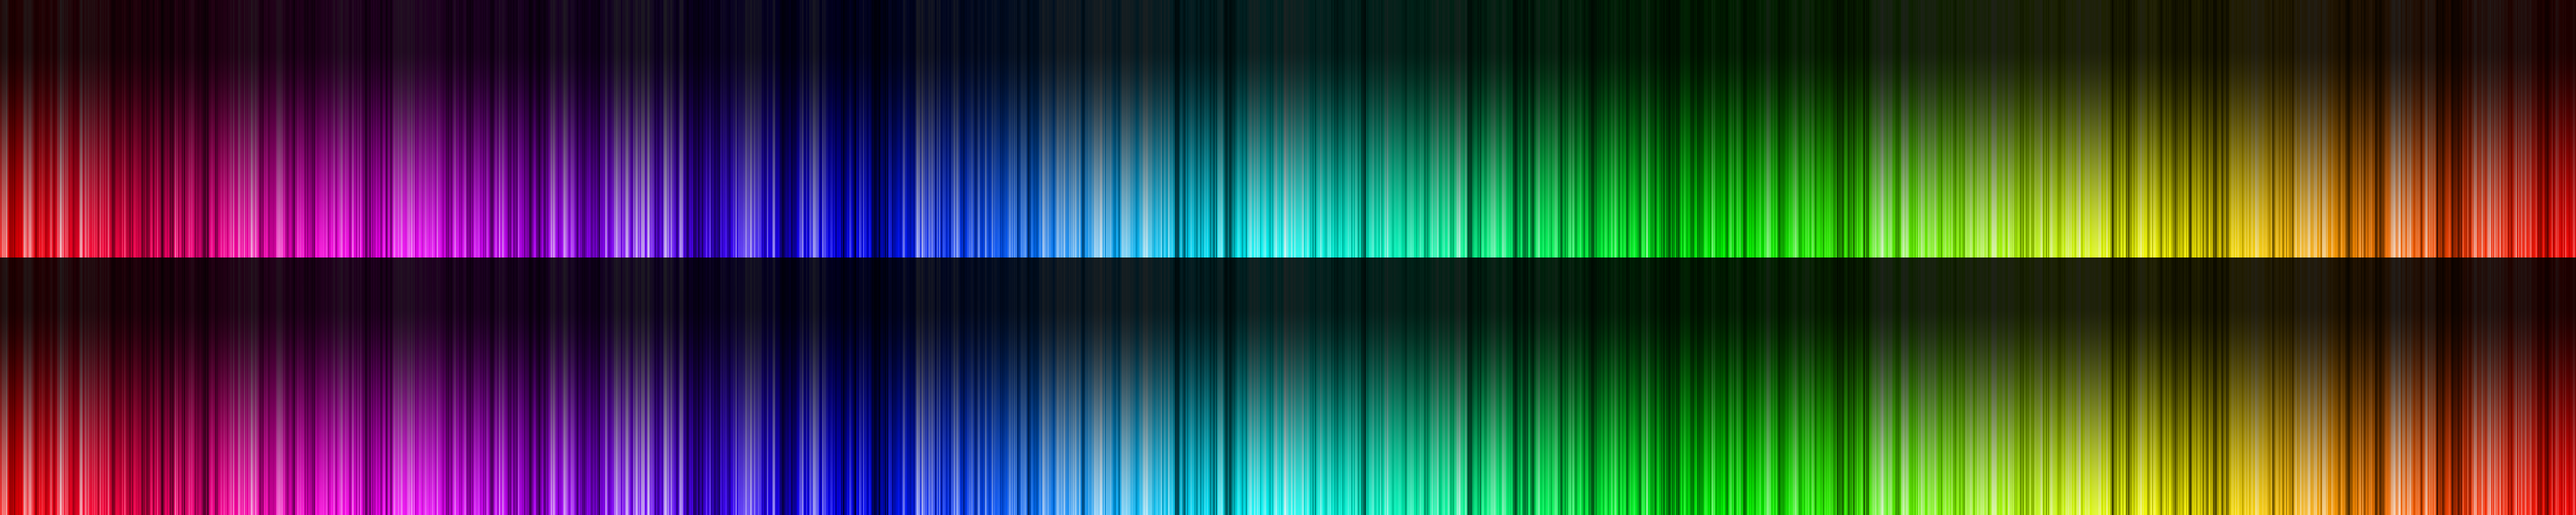
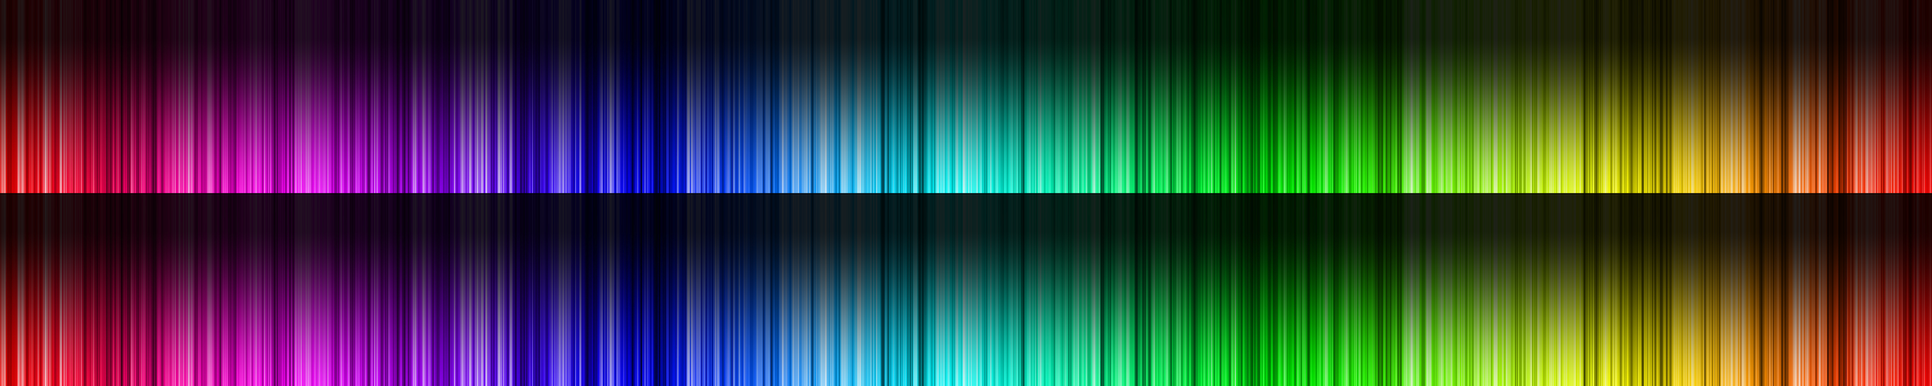
Foreground in place, fixed runner bug.

diff --git a/src/dk/aau/oose/play/PlayController.java b/src/dk/aau/oose/play/PlayController.java
@@ -3,41 +3,34 @@ package dk.aau.oose.play;
 import org.newdawn.slick.Input;
 
 import dk.aau.oose.core.GameElement;
+import dk.aau.oose.create.CreateController;
 import dk.aau.oose.graphics.Background;
+import dk.aau.oose.graphics.ImageElement;
 import dk.aau.oose.noteline.NoteLineView;
 
 public class PlayController extends GameElement {
 	protected PlayTrack pt1, pt2;
-	private Background bg;
+	private ImageElement bg;
 	
 	private static final int SINGLEPLAYER_CONTROLLER = Input.KEY_SPACE,
 							 PT1_CONTROLLER = Input.KEY_A, 
-							 PT2_CONTROLLER = Input.KEY_L,
-							 PT_VERTICAL_OFFSET = 50;
+							 PT2_CONTROLLER = Input.KEY_L;
 	
 	
 	public PlayController(NoteLineView nlv1, NoteLineView nlv2, int numberOfPlayers){
-		pt1 = new PlayTrack(nlv1, (numberOfPlayers > 1) ? SINGLEPLAYER_CONTROLLER : PT1_CONTROLLER, (numberOfPlayers > 0));
+		pt1 = new PlayTrack(nlv1, (numberOfPlayers > 1) ? PT1_CONTROLLER : SINGLEPLAYER_CONTROLLER, (numberOfPlayers > 0));
 		pt2 = new PlayTrack(nlv2, PT2_CONTROLLER, (numberOfPlayers > 1));
 		bg = new Background();
 		
-		pt1.setPosition(0.0f, PT_VERTICAL_OFFSET);
-		pt2.setPosition(0.0f, PT_VERTICAL_OFFSET + pt1.getPosition().y + pt1.getBounds().height);
+		pt1.setPosition(0.0f, CreateController.VERTICAL_OFFSET_1);
+		pt2.setPosition(0.0f, CreateController.VERTICAL_OFFSET_2 + pt1.getPosition().y + pt1.getBounds().height);
 		
 		this.addChild(bg);	
 		this.addChild(pt1);
 		this.addChild(pt2);
 		
-		//listen();
 		//Start right away; no need to press space.
-		startPlaying(new PlayThread.Callback() {
-			
-			@Override
-			public void call() {
-				// TODO Auto-generated method stub
-				
-			}
-		});
+		startPlaying();
 	}
 	
 	public void startPlaying(){

diff --git a/src/dk/aau/oose/GameController.java b/src/dk/aau/oose/GameController.java
@@ -1,12 +1,15 @@
 package dk.aau.oose;
 
 import org.newdawn.slick.Graphics;
+import org.newdawn.slick.Image;
 import org.newdawn.slick.Input;
+import org.newdawn.slick.SlickException;
 
 import dk.aau.oose.core.Button;
 import dk.aau.oose.core.ButtonWithImage;
 import dk.aau.oose.core.GameElement;
 import dk.aau.oose.create.CreateController;
+import dk.aau.oose.graphics.Foreground;
 import dk.aau.oose.noteline.NoteLineView;
 import dk.aau.oose.play.PlayController;
 import dk.aau.oose.play.SavePerfect;
@@ -16,6 +19,7 @@ public class GameController extends GameElement {
 	private CreateController createController;
 	private PlayController playController;
 	private boolean cooperative = false;
+	private Foreground foreground;
 	
 	private ButtonWithImage modeSelect,
 							singleSelect, 
@@ -25,6 +29,8 @@ public class GameController extends GameElement {
 	public GameController(){
 		startCreate();
 		initiateButtons();
+		foreground = new Foreground();
+		this.addChild(foreground);
 	}
 
 	private void initiateButtons() {
@@ -76,15 +82,16 @@ public class GameController extends GameElement {
 			}
 		};
 		
-		modeSelect.setPosition(100, 10);
-		singleSelect.setPosition(300, 10);
-		coopSelect.setPosition(500, 10);
+		modeSelect.setPosition(38, 50);
+		singleSelect.setPosition(620, 50);
+		coopSelect.setPosition(640, 350);
 		savePerfectVersion.setPosition(800, 10);
 
 		this.addChild(modeSelect);
 		this.addChild(singleSelect);
 		this.addChild(coopSelect);
 		this.addChild(savePerfectVersion);
+		
 	}
 
 	@Override

diff --git a/src/dk/aau/oose/create/CreateController.java b/src/dk/aau/oose/create/CreateController.java
@@ -1,24 +1,20 @@
 package dk.aau.oose.create;
 
-import org.newdawn.slick.Input;
-
 import dk.aau.oose.core.GameElement;
 import dk.aau.oose.noteline.NoteLineView;
 
 public class CreateController extends GameElement {
 	private CreateTrack ct1, ct2;
-	private static final int SCROLL_RIGHT = Input.KEY_D, 
-							 SCROLL_LEFT = Input.KEY_A, 
-							 SCROLL_SPEED = 10,
-							 SCROLL_BUTTON = 1,
+	public static final int SCROLL_BUTTON = 1,
 							 MAX_NOTE = 10,
 							 NUMBER_OF_BEATS = 32,
 							 TRACK1_OCTAVE = 5,
 							 TRACK2_OCTAVE = 3,
 							 TEMPO = 100,
-							 WIDTH = NUMBER_OF_BEATS * 50,
-							 HEIGHT = 300,
-							 PT_VERTICAL_OFFSET = 90;
+							 WIDTH = NUMBER_OF_BEATS * 30,
+							 HEIGHT = 150,
+							 VERTICAL_OFFSET_1 = 130,
+							 VERTICAL_OFFSET_2 = 150;
 	
 	private boolean scrolling;
 	private float scrollStartX;
@@ -28,8 +24,8 @@ public class CreateController extends GameElement {
 		ct1 = new CreateTrack(nlv1);
 		ct2 = new CreateTrack(nlv2);
 		
-		ct1.setPosition(0.0f, PT_VERTICAL_OFFSET);
-		ct2.setPosition(0.0f, PT_VERTICAL_OFFSET + ct1.getPosition().y + ct1.getBounds().height);
+		ct1.setPosition(0.0f, VERTICAL_OFFSET_1);
+		ct2.setPosition(0.0f, VERTICAL_OFFSET_2 + ct1.getPosition().y + ct1.getBounds().height);
 		
 		this.addChild(ct1);
 		this.addChild(ct2);

diff --git a/src/dk/aau/oose/graphics/Background.java b/src/dk/aau/oose/graphics/Background.java
@@ -1,30 +1,9 @@
 package dk.aau.oose.graphics;
 
-import org.newdawn.slick.Graphics;
-import org.newdawn.slick.Image;
-import org.newdawn.slick.SlickException;
+public class Background extends ImageElement {
 
-import dk.aau.oose.core.GameElement;
-
-
-
-public class Background extends GameElement {
-
-	private Image sprite;
-	
 	public Background(){
-		try {
-			//TODO use proper animation
-			sprite = new Image("assets/bg.png"); // new Image("assets/runner/02.png"); //
-		} catch (SlickException e) {
-			e.printStackTrace();
-			System.exit(1);
-		}	
-	}
-	
-	@Override
-	public void onDraw(Graphics gfx) {
-		sprite.draw();
+		super("assets/bg.png");
 	}
 	
 }

diff --git a/src/dk/aau/oose/graphics/ImageElement.java b/src/dk/aau/oose/graphics/ImageElement.java
@@ -1,0 +1,27 @@
+package dk.aau.oose.graphics;
+
+import org.newdawn.slick.Graphics;
+import org.newdawn.slick.Image;
+import org.newdawn.slick.SlickException;
+
+import dk.aau.oose.core.GameElement;
+
+public class ImageElement extends GameElement {
+
+	protected Image sprite;
+
+	public ImageElement(String image) {
+		try {
+			sprite = new Image(image);
+		} catch (SlickException e) {
+			e.printStackTrace();
+			System.exit(1);
+		}	
+	}
+
+	@Override
+	public void onDraw(Graphics gfx) {
+		sprite.draw();
+	}
+
+}

diff --git a/src/dk/aau/oose/tests/GameControllerTest.java b/src/dk/aau/oose/tests/GameControllerTest.java
@@ -44,9 +44,10 @@ public class GameControllerTest extends BasicGame {
 		MaxMSP.Connect("127.0.0.1", 7400);
 		try {
 			AppGameContainer container = new AppGameContainer(new GameControllerTest());
-			container.setDisplayMode(1000,800,false);
+			container.setDisplayMode(800,600,false);
 			container.setMinimumLogicUpdateInterval(20);
 			container.start();
+			container.setShowFPS(false);
 
 		} catch (SlickException e) {
 			e.printStackTrace();

diff --git a/src/dk/aau/oose/create/CreateTrack.java b/src/dk/aau/oose/create/CreateTrack.java
@@ -44,7 +44,6 @@ public class CreateTrack extends GameElement {
 			if (noteHeight >= 0 && noteIndex >= 0) {
 				if (input.isKeyDown(Input.KEY_LSHIFT) || input.isKeyDown(input.KEY_RSHIFT)) {
 
-					System.out.println("shift down - as it should be!");
 					Note note = nl.getNote(noteIndex);
 					note.setDistinct(!note.isDistinct());
 					nl.setNote(note, noteIndex);

diff --git a/src/dk/aau/oose/graphics/Foreground.java b/src/dk/aau/oose/graphics/Foreground.java
@@ -1,0 +1,9 @@
+package dk.aau.oose.graphics;
+
+public class Foreground extends ImageElement {
+
+	public Foreground() {
+		super("assets/foreground.png");
+	}
+
+}
